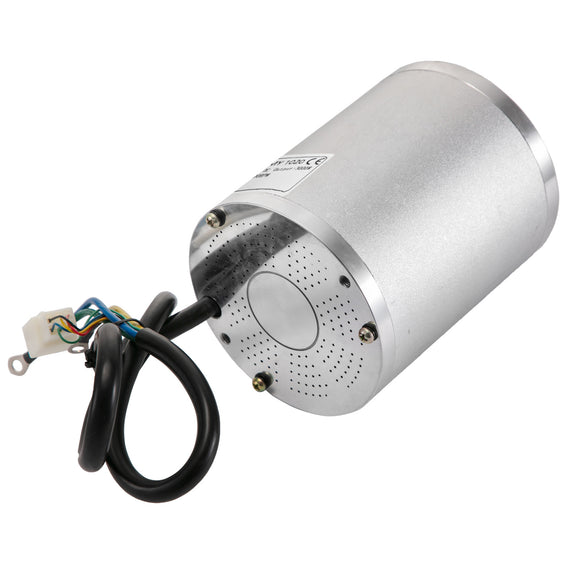
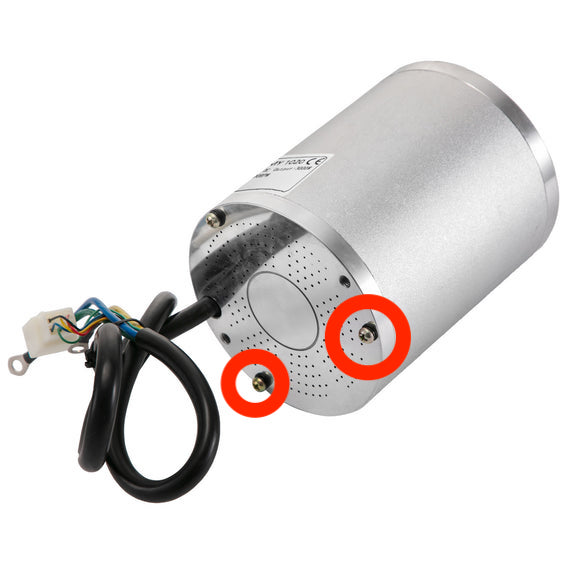
add some recommendations to the mx500 guide

Changed region(s): [[0.5687, 0.5088, 0.7482, 0.6884], [0.3891, 0.5986, 0.5088, 0.7482]]

diff --git a/mx500And650.md b/mx500And650.md
@@ -1,1 +1,21 @@
 # MX500 and MX650
+## Motor upgrade
+
+* [Brushless 1020 3000 watt](https://www.aliexpress.com/item/4000250072388.html?spm=a2g0o.order_list.0.0.21ef1802ozHCez)
+  * Almost a direct fit.  Uses the same mount hole pattern.
+  * You just need to drill about 5mm down the cover of your motor to allow the bolt to rest flat so you can mount it.  Stop drilling once the bolt is flush with the top of the cover.  If you drill too deep you will need to do something hacky with washers n shit.  I think its these two bolts: ![These two bolts I believe](./images/1020Motor.jpeg)
+
+  * [This motor](https://www.aliexpress.com/item/4000250072388.html?spm=a2g0o.order_list.0.0.21ef1802ozHCez) has been verified to handle 250 phase amps and about 100 battery amps though it gets hot fast.  
+  * If you push it hard you'll need some heat sinks like [this]([http://someoneFindALinkPlzkthx](https://www.pwmall.com/p-210643-50_126-delavan_heat_sink_fits_all_4_diameter_delavan_motors_7870_7970_7871_7971_fb_series?fbclid=IwAR1qtVtE8GrEi5lMz8ljRAmksvRH3bCqQk6Q1Tn-cePhvMYAo2bQ8pyqhgA)): ![this](images/heatsink.jpeg)
+
+## Connectors
+
+* [XT90s](https://www.amazon.com/Amass-Connector-Anti-Spark-Battery-Charger/dp/B074PTHZ3M/ref=sr_1_2?crid=374B062FKB4N2&keywords=xt90s&qid=1645583218&sprefix=xt90%2Caps%2C344&sr=8-2) connectors for the battery is recommended to avoid sparking when plugging the battery into the controller.
+  * Stick with the amass branded connectors. 
+  * They are rated for 100a.  If you have a 300a battery you can just use 3 connectors for example. 
+  * They can use up to [10 gauge silicone wire](https://www.amazon.com/10-Gauge-Silicone-Wire-Feet/dp/B007DMW3IU).  Any larger than that is a waste and hard to solder.
+* [Bullet connectors](https://www.amazon.com/Generic-5-5mm-Gold-Bullet-Connector/dp/B01MRXLVRD/ref=sr_1_4?keywords=5.5mm+bullet+connector&qid=1645583504&sprefix=5.5mm+bull%2Caps%2C221&sr=8-4) for the motor phase wires.
+  * See the image below for amp ratings.  I use 5.5mm bullets for everything because they do about 100 amps.  If I need more amps I just do 1 connector per phase per 100 amps.  I basically just match them up with the same number of XT90s connectors I use.  ![amp ratings](./images/bullets.jpeg)
+  * Depending on the controller you get you'll want to replace the phase wires to use bullet connectors so that you don't have to use one of these shit boxes: ![shit boxes](./images/shitBox.jpeg)
+  * The shit boxes are nothing but problems because the plastic melts easily when the nuts come loose.  I have seen this many times and it usually does'nt end well and can take your controller down with it.
+  * If your controller has built in phase wire mounts(like the one below) you should be fine to just go with whats built in. ![ok controller mount](./images/kelly.png)

diff --git a/mx350.md b/mx350.md
@@ -1,9 +1,1 @@
-# [razorWiki](README.md)
-
-razor parts wiki n shitz
-
-## [MX500/650](./mx500And650.md)
-
-## [RSF650](./rsf650.md)
-
-## [MX350](./mx350.md)
+# MX350
